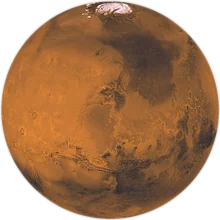
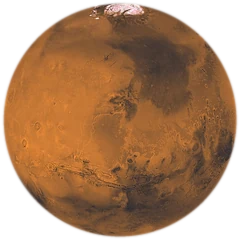
Realistic brighter plume; brighter Moon and Mars
Plume rebuilt as a layered engine exhaust: a blue-white throat welded to
the bells, a white-hot core ramping through amber to orange, six shock
diamonds tightening toward the nozzle, a warm mid plume, a diffuse
scattered tail that flares as it expands, a broad bloom for the light it
throws into the air, and spill light on the skirt and engine bay.

Moon and Mars are brighter and larger with twin glows — a tight warm halo
and a wide soft one — and Mars's terminator no longer eats half the disc.
On phones they now sit in front of the veil rather than behind it, since
the copy carries its own backing, so they read at full brightness there
too.

Four real defects found and fixed, three of them mine:

- The whole plume group was being scaled 2.3x vertically during ascent,
  which dragged the throat and shock diamonds ~100px off the nozzle and
  smeared every gradient. Split: the near field is opacity-only and stays
  welded to the bells, and only the tail lengthens.
- The plume looked washed out because it flies inside the copy column and
  was dimmed twice, by the hero veil and the copy backing. Measured it:
  rgb(83,85,93) with the backing versus rgb(172,173,177) without.
- filter:brightness(1.95) was the wrong compensation. It multiplies
  channels and clips saturated warm colour into yellow — #ffa15c became
  #ffffb3 — which is what made the plume read olive-green over the blue
  sky. Removed; the plume is lit by its own gradients now.
[…]

Changed region(s): [[0.0, 0.0, 1.0, 1.0]]

diff --git a/index.html b/index.html
@@ -273,8 +273,8 @@ header{position:sticky;top:0;z-index:50;background:rgba(7,11,24,.8);backdrop-fil
    the base is 0.376 x (width x 6.4286) = 2.418 x width above the element's
    bottom edge. Deriving the offset keeps the engines on the treeline. */
 .launch{--rw:clamp(54px,6.8vw,104px);
-  position:absolute;z-index:-2;left:calc(61% - var(--rw) / 2);width:var(--rw);
-  bottom:calc(30px - 2.418 * var(--rw));pointer-events:none;opacity:.95}
+  position:absolute;z-index:-2;left:calc(65% - var(--rw) / 2);width:var(--rw);
+  bottom:calc(30px - 2.418 * var(--rw));pointer-events:none;opacity:1}
 @media (max-width:760px){.launch{--rw:72px;left:calc(58% - var(--rw) / 2);opacity:.8;
   bottom:calc(18px - 2.418 * var(--rw))}}
 
@@ -320,18 +320,22 @@ header{position:sticky;top:0;z-index:50;background:rgba(7,11,24,.8);backdrop-fil
 
 /* The Moon really does librate — a slow wobble plus drift keeps the disc from
    reading as a sticker. Transform and opacity only, so it all composites. */
-.moon{position:absolute;top:5%;right:6%;width:clamp(62px,8vw,112px);
-  filter:drop-shadow(0 0 34px rgba(244,239,230,.13));
+.moon{position:absolute;top:5%;right:6%;width:clamp(66px,8.4vw,120px);
+  filter:brightness(1.22) contrast(1.06)
+         drop-shadow(0 0 16px rgba(244,239,230,.34))
+         drop-shadow(0 0 54px rgba(214,226,255,.2));
   animation:rf-drift-moon 210s ease-in-out infinite alternate,
             rf-librate 96s ease-in-out infinite alternate}
 .moon-base{position:absolute;inset:0;width:100%;height:100%}
-.mars{position:absolute;top:26%;right:23%;width:clamp(22px,2.8vw,42px);
-  filter:drop-shadow(0 0 14px rgba(232,98,60,.2));
+.mars{position:absolute;top:26%;right:23%;width:clamp(26px,3.2vw,48px);
+  filter:brightness(1.3) saturate(1.16)
+         drop-shadow(0 0 12px rgba(255,146,92,.4))
+         drop-shadow(0 0 34px rgba(232,98,60,.22));
   animation:rf-drift-mars 150s ease-in-out infinite alternate}
 /* a terminator that creeps around the disc, so Mars reads as a lit sphere
    rather than a flat cut-out */
 .mars-term{position:absolute;inset:0;border-radius:50%;
-  background:linear-gradient(105deg,transparent 42%,rgba(11,18,38,.24) 72%,rgba(11,18,38,.62) 100%);
+  background:linear-gradient(105deg,transparent 48%,rgba(11,18,38,.16) 76%,rgba(11,18,38,.44) 100%);
   animation:rf-term 120s linear infinite}
 
 @keyframes rf-drift-moon{from{transform:translate3d(0,0,0)}to{transform:translate3d(-2.2%,1.6%,0)}}
@@ -343,13 +347,13 @@ header{position:sticky;top:0;z-index:50;background:rgba(7,11,24,.8);backdrop-fil
 @keyframes rf-drift-mars{from{transform:translate3d(0,0,0)}to{transform:translate3d(3.4%,-2.4%,0)}}
 @keyframes rf-term{from{rotate:0deg}to{rotate:360deg}}
 @media (max-width:760px){
-  /* Phones run the copy full-width, so there is no margin the bodies can sit
-     in safely. Drop them behind the veil and let it haze them instead — the
-     alternative is type sitting on a lit moon. */
-  .sky-bodies{z-index:-2}
-  .moon{top:1.2%;right:4%;width:58px}
-  .mars{top:8%;right:32%;width:22px}
-  .hero-copy{text-shadow:0 1px 14px rgba(7,11,24,.6)}
+  /* The copy carries its own backing now, so the bodies sit in front of the
+     veil on phones too and read at full brightness. */
+  .moon{top:1.2%;right:4%;width:74px}
+  .mars{top:7.5%;right:30%;width:30px}
+  .hero-copy{text-shadow:0 1px 3px rgba(7,11,24,.96),0 2px 16px rgba(7,11,24,.9)}
+  .hero-copy::before{background:rgba(7,11,24,.58)}
+  .launch{opacity:.6}
 }
 
 /* veil: protects the type where it sits, thins out to the right */
@@ -380,23 +384,33 @@ header{position:sticky;top:0;z-index:50;background:rgba(7,11,24,.8);backdrop-fil
 }
 
 /* plume grows downward out of the engine skirt */
-.rf-plume{transform-box:fill-box;transform-origin:50% 0%;opacity:0;
+.rf-plume{opacity:0;filter:saturate(1.12);
   animation:rf-plume 22s linear infinite}
+/* only the tail lengthens; the throat stays welded to the bells */
+.rf-plume-far{transform-box:fill-box;transform-origin:50% 0%;
+  animation:rf-tail 22s linear infinite}
 @keyframes rf-plume{
-  0%,11% {opacity:0;transform:scale(.5,.12)}
-  14%    {opacity:1;transform:scale(1,.65)}
-  19%    {opacity:1;transform:scale(1.08,1.6)}
-  60%    {opacity:1;transform:scale(1,2.3)}
-  80%    {opacity:1;transform:scale(.88,2.3)}
-  85%    {opacity:0;transform:scale(.88,2.3)}
+  0%,11% {opacity:0}
+  13.5%  {opacity:.8}
+  18%    {opacity:1}
+  80%    {opacity:1}
+  85%    {opacity:0}
   100%   {opacity:0}
+}
+@keyframes rf-tail{
+  0%,11% {transform:scaleY(.18)}
+  15%    {transform:scaleY(.55)}
+  22%    {transform:scaleY(.86)}
+  40%    {transform:scaleY(1)}
+  80%    {transform:scaleY(1.06)}
+  100%   {transform:scaleY(1.06)}
 }
 /* engine flicker rides on opacity so it does not fight the scale above */
 .rf-core{animation:rf-flicker .16s steps(2,end) infinite}
 @keyframes rf-flicker{from{opacity:.98}to{opacity:.74}}
 
 /* rolling smoke column: three billows on staggered delays */
-.rf-smokecol{position:absolute;z-index:-2;left:calc(61% - 150px);bottom:-40px;
+.rf-smokecol{position:absolute;z-index:-2;left:calc(65% - 150px);bottom:-40px;
   width:300px;height:340px;pointer-events:none;opacity:.75}
 @media (max-width:760px){.rf-smokecol{left:calc(58% - 105px);width:210px;height:250px;opacity:.55}}
 .rf-puff{position:absolute;bottom:0;border-radius:50%;filter:blur(7px);
@@ -419,7 +433,7 @@ header{position:sticky;top:0;z-index:50;background:rgba(7,11,24,.8);backdrop-fil
 
 /* ignition cloud at the pad */
   .launch-smoke{--sw:clamp(150px,20vw,260px);
-  position:absolute;z-index:-2;left:calc(61% - var(--sw) / 2);
+  position:absolute;z-index:-2;left:calc(65% - var(--sw) / 2);
   bottom:calc(14px - var(--sw) / 2);
   width:var(--sw);aspect-ratio:1;border-radius:50%;pointer-events:none;
   background:radial-gradient(circle at 50% 62%,rgba(244,239,230,.5),rgba(244,239,230,.16) 42%,transparent 70%);
@@ -441,12 +455,13 @@ header{position:sticky;top:0;z-index:50;background:rgba(7,11,24,.8);backdrop-fil
 }
 .horizon{position:absolute;left:0;right:0;bottom:-1px;z-index:-1;width:100%;height:auto}
 
-.hero-copy{max-width:790px;position:relative}
+.hero-copy{max-width:790px;position:relative;
+  text-shadow:0 1px 3px rgba(7,11,24,.96),0 2px 20px rgba(7,11,24,.85)}
 /* A uniform, feathered backing rather than a radial one: the radial left the
    far end of the headline uncovered, and that is exactly where the vehicle
    flies. Blurring the pseudo-element gives a soft edge with no visible box. */
-.hero-copy::before{content:"";position:absolute;inset:-7% -9% -9% -11%;z-index:-1;
-  pointer-events:none;border-radius:56px;background:rgba(7,11,24,.56);
+.hero-copy::before{content:"";position:absolute;inset:-7% 7% -9% -11%;z-index:-1;
+  pointer-events:none;border-radius:56px;background:rgba(7,11,24,.34);
   filter:blur(30px)}
 .hero-copy>*{position:relative}
 .hero h1{font-size:var(--h1);margin:0;text-wrap:balance}
@@ -455,7 +470,7 @@ header{position:sticky;top:0;z-index:50;background:rgba(7,11,24,.8);backdrop-fil
   margin-top:1.15rem;max-width:34ch;text-wrap:balance;
   background:linear-gradient(100deg,var(--amber),var(--sunset));
   -webkit-background-clip:text;background-clip:text;color:transparent}
-.hero .lede{font-size:clamp(1.05rem,1.6vw,1.25rem);color:var(--muted);margin-top:1.4rem;max-width:62ch}
+.hero .lede{font-size:clamp(1.05rem,1.6vw,1.25rem);color:var(--muted);margin-top:1.4rem;max-width:51ch}
 .tags{display:flex;flex-wrap:wrap;gap:.5rem;margin-top:2rem;list-style:none;padding:0}
 .tags li{font-family:var(--font-display);font-weight:500;font-size:.72rem;letter-spacing:.16em;text-transform:uppercase;border:1px solid var(--line-strong);border-radius:999px;padding:.45rem .95rem;background:rgba(244,239,230,.04)}
 .hero-cta{display:flex;flex-wrap:wrap;gap:.8rem;margin-top:2.2rem}
@@ -791,52 +806,91 @@ footer{border-top:1px solid var(--line);background:#05080f;padding:clamp(2.5rem,
               <stop offset=".74" stop-color="#0b1226" stop-opacity="0"/>
               <stop offset="1"   stop-color="#0b1226" stop-opacity=".3"/>
             </linearGradient>
-            <!-- plume: white-hot core through to a diffuse, scattered tail -->
+            <!-- plume: bright blue-white throat, white-hot core, warm mid,
+                 diffuse scattered tail, plus a broad bloom for the light it
+                 throws into the air around it -->
+            <radialGradient id="rfThroat" cx=".5" cy=".5" r=".5">
+              <stop offset="0"   stop-color="#ffffff"/>
+              <stop offset=".3"  stop-color="#e8f4ff"/>
+              <stop offset=".62" stop-color="#ffe7b0" stop-opacity=".8"/>
+              <stop offset="1"   stop-color="#ffb060" stop-opacity="0"/>
+            </radialGradient>
             <linearGradient id="rfCoreG" x1="0" y1="0" x2="0" y2="1">
               <stop offset="0"   stop-color="#ffffff"/>
-              <stop offset=".18" stop-color="#fff6de"/>
-              <stop offset=".46" stop-color="#ffd089"/>
-              <stop offset=".78" stop-color="#ff9a52" stop-opacity=".5"/>
-              <stop offset="1"   stop-color="#ff7a3c" stop-opacity="0"/>
+              <stop offset=".05" stop-color="#eaf5ff"/>
+              <stop offset=".12" stop-color="#fff0d8"/>
+              <stop offset=".26" stop-color="#ffdcae"/>
+              <stop offset=".42" stop-color="#ffb877"/>
+              <stop offset=".60" stop-color="#ff9354" stop-opacity=".95"/>
+              <stop offset=".78" stop-color="#fb7440" stop-opacity=".62"/>
+              <stop offset=".92" stop-color="#ef5f30" stop-opacity=".22"/>
+              <stop offset="1"   stop-color="#e8623c" stop-opacity="0"/>
             </linearGradient>
             <linearGradient id="rfMidG" x1="0" y1="0" x2="0" y2="1">
-              <stop offset="0"   stop-color="#ffe3bb" stop-opacity="1"/>
-              <stop offset=".4"  stop-color="#ffab6c" stop-opacity=".78"/>
-              <stop offset=".8"  stop-color="#f4713f" stop-opacity=".34"/>
+              <stop offset="0"   stop-color="#fff0d8"/>
+              <stop offset=".2"  stop-color="#ffc48a" stop-opacity="1"/>
+              <stop offset=".48" stop-color="#ff9250" stop-opacity=".9"/>
+              <stop offset=".78" stop-color="#f76d3c" stop-opacity=".5"/>
               <stop offset="1"   stop-color="#e8623c" stop-opacity="0"/>
             </linearGradient>
             <linearGradient id="rfOuterG" x1="0" y1="0" x2="0" y2="1">
-              <stop offset="0"   stop-color="#ffc48c" stop-opacity=".72"/>
-              <stop offset=".45" stop-color="#f4884c" stop-opacity=".4"/>
-              <stop offset="1"   stop-color="#d4542c" stop-opacity="0"/>
+              <stop offset="0"   stop-color="#ffdcac" stop-opacity=".95"/>
+              <stop offset=".3"  stop-color="#ff9a5e" stop-opacity=".7"/>
+              <stop offset=".65" stop-color="#e85b2c" stop-opacity=".34"/>
+              <stop offset="1"   stop-color="#c8431c" stop-opacity="0"/>
             </linearGradient>
-            <filter id="rfSoftPlume" x="-70%" y="-12%" width="240%" height="130%">
-              <feGaussianBlur stdDeviation="9"/>
+            <radialGradient id="rfBloom" cx=".5" cy=".5" r=".5">
+              <stop offset="0"   stop-color="#ffb066" stop-opacity=".5"/>
+              <stop offset=".45" stop-color="#ff8f44" stop-opacity=".22"/>
+              <stop offset="1"   stop-color="#e8623c" stop-opacity="0"/>
+            </radialGradient>
+            <filter id="rfBloomF" x="-90%" y="-40%" width="280%" height="190%">
+              <feGaussianBlur stdDeviation="26"/>
             </filter>
-            <filter id="rfMidPlume" x="-50%" y="-10%" width="200%" height="125%">
-              <feGaussianBlur stdDeviation="4"/>
+            <filter id="rfSoftPlume" x="-80%" y="-14%" width="260%" height="140%">
+              <feGaussianBlur stdDeviation="11"/>
             </filter>
-            <filter id="rfCorePlume" x="-40%" y="-8%" width="180%" height="120%">
-              <feGaussianBlur stdDeviation="1.4"/>
+            <filter id="rfMidPlume" x="-60%" y="-12%" width="220%" height="132%">
+              <feGaussianBlur stdDeviation="5"/>
+            </filter>
+            <filter id="rfCorePlume" x="-50%" y="-10%" width="200%" height="124%">
+              <feGaussianBlur stdDeviation="1.8"/>
+            </filter>
+            <filter id="rfThroatF" x="-140%" y="-140%" width="380%" height="380%">
+              <feGaussianBlur stdDeviation="7"/>
             </filter>
           </defs>
 
           <!-- ============ PLUME (drawn first; the skirt overlaps its mouth) -->
           <g class="rf-plume">
-            <path filter="url(#rfSoftPlume)" fill="url(#rfOuterG)"
-                  d="M48 558 C34 660 22 760 14 886 L126 886 C118 760 106 660 92 558 Z"/>
-            <path filter="url(#rfMidPlume)" fill="url(#rfMidG)"
-                  d="M54 558 C46 650 38 742 32 868 L108 868 C102 742 94 650 86 558 Z"/>
-            <g class="rf-core" filter="url(#rfCorePlume)">
-              <path fill="url(#rfCoreG)"
-                    d="M60 556 C57 620 55 680 52 812 L88 812 C85 680 83 620 80 556 Z"/>
-              <!-- shock diamonds down the core -->
-              <g fill="#fffdf4" opacity=".85">
-                <ellipse cx="70" cy="596" rx="7.5" ry="4"/>
-                <ellipse cx="70" cy="636" rx="6.2" ry="3.4"/>
-                <ellipse cx="70" cy="676" rx="5" ry="2.8"/>
-                <ellipse cx="70" cy="714" rx="3.8" ry="2.2"/>
+            <g class="rf-plume-far">
+              <!-- broad bloom: the light the plume throws into the air -->
+              <ellipse cx="70" cy="650" rx="86" ry="150" fill="url(#rfBloom)" filter="url(#rfBloomF)"/>
+              <!-- diffuse outer tail, flaring as it expands into thinner air -->
+              <path filter="url(#rfSoftPlume)" fill="url(#rfOuterG)"
+                    d="M50 556 C40 640 27 730 12 894 L128 894 C113 730 100 640 90 556 Z"/>
+              <!-- warm mid plume -->
+              <path filter="url(#rfMidPlume)" fill="url(#rfMidG)"
+                    d="M56 556 C50 628 43 700 34 836 L106 836 C97 700 90 628 84 556 Z"/>
+            </g>
+            <g class="rf-core">
+              <!-- white-hot core -->
+              <path filter="url(#rfCorePlume)" fill="url(#rfCoreG)"
+                    d="M61 554 C59 610 57 662 53 768 L87 768 C83 662 81 610 79 554 Z"/>
+              <!-- shock diamonds, tight and bright near the throat -->
+              <g fill="#ffffff">
+                <ellipse cx="70" cy="584" rx="8.2" ry="4.4" opacity=".95"/>
+                <ellipse cx="70" cy="606" rx="7" ry="3.8" opacity=".88"/>
+                <ellipse cx="70" cy="628" rx="5.9" ry="3.2" opacity=".78"/>
+                <ellipse cx="70" cy="652" rx="4.8" ry="2.7" opacity=".66"/>
+                <ellipse cx="70" cy="678" rx="3.8" ry="2.2" opacity=".5"/>
+                <ellipse cx="70" cy="706" rx="2.9" ry="1.7" opacity=".34"/>
               </g>
+              <!-- throat: the hottest, tightest point, right at the bells -->
+              <ellipse cx="70" cy="578" rx="27" ry="12" fill="url(#rfThroat)" opacity=".8" filter="url(#rfThroatF)"/>
+              <ellipse cx="70" cy="574" rx="11" ry="5" fill="#ffffff" opacity=".9" filter="url(#rfCorePlume)"/>
+            </g>
+          </g>
             </g>
           </g>
 
@@ -868,8 +922,9 @@ footer{border-top:1px solid var(--line);background:#05080f;padding:clamp(2.5rem,
             <path d="M58 562 h13 l2 12 h-17 Z"/>
             <path d="M74 562 h13 l2 12 h-17 Z"/>
           </g>
-          <!-- hot glow where the bells meet the plume -->
-          <ellipse cx="70" cy="572" rx="30" ry="8" fill="#ffb066" opacity=".5" filter="url(#rfMidPlume)"/>
+          <!-- light spill from the plume onto the skirt and engine bay -->
+          <ellipse cx="70" cy="550" rx="50" ry="20" fill="#ff9c50" opacity=".62" filter="url(#rfMidPlume)"/>
+          <ellipse cx="70" cy="564" rx="34" ry="11" fill="#ffd9a2" opacity=".8" filter="url(#rfMidPlume)"/>
         </svg>
       </div>
     </div>
